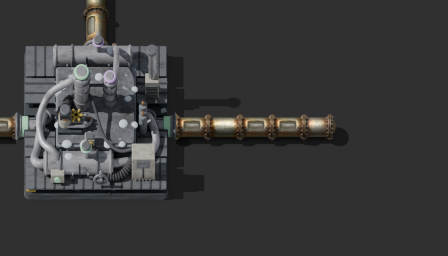
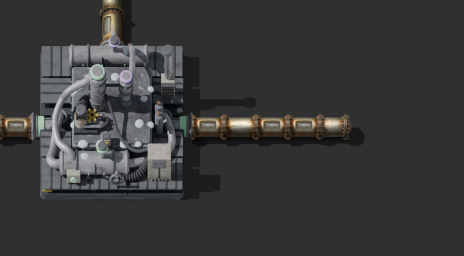
🐛 fix(graphics): frame the run off the footprint, not off one machine
Six defects the review of this branch found. The first is the one that
shows: the run frame was 14x8 tiles four off the machine centre, which
framed the 5x5 collector and cut the last pipe off both of
rf-heat-exchanger's water runs. That machine is fifteen tiles wide, so a
half-width of seven never reached a socket eight tiles out, let alone
the run beyond it -- and the frame that exists to say whether a join is
visible at a player's zoom was showing three tiles of run and a clipped
machine.

SPACING is read off footprint() for exactly that reason and the header
states the rule. The run frame was the one place still typed, so it now
comes off the same call: out to the last pipe plus four tiles of floor,
back to half the machine plus one, and the frame spans the two. The
thirteen frames are re-shot, and only the six run frames changed -- the
seam frames are byte-identical, which is the check that the seam framing
was left alone.

Five smaller ones:

docs/research/socket-join.md still said "a fixed map seed would fix it".
This branch disproved that by trying it, so the note now says what the
cause was and what fixed it, and says at the top that it describes the
#357 pair and none of the frames the probe writes today.

models/house-style.md stated the same measurement twice in one
paragraph, on a 122-character line, from an incomplete edit two commits
ago.

The PNG settle loop shared the done marker's deadline, so a marker
[…]

Changed region(s): [[0.0, 0.0, 0.7812, 0.7812]]

diff --git a/models/house-style.md b/models/house-style.md
@@ -320,22 +320,24 @@ number, which is this note's own last sentence said by a tool. (The other three 
 contained: they wear no rim and no ribs, so they report a stub and a band and nothing else.)
 
 **The fourth row is reproduced on the control render, and the leak with it.** The control is the
-shipped model with its six `Flange-*` objects deleted and re-rendered to a scratch
-directory -- nothing in the repository is touched and nothing is committed, so re-deriving that row
-means re-rendering. **`scripts/probe-flange-free-render.ps1` is that render, in one command**
-(#376): it runs `models/socket-variants.py`'s `unflanged` treatment over the stored model and
+shipped model with its six `Flange-*` objects deleted and re-rendered to a scratch directory --
+nothing in the repository is touched and nothing is committed, so re-deriving that row means
+re-rendering. **`scripts/probe-flange-free-render.ps1` is that render, in one command** (#376): it
+runs `models/socket-variants.py`'s `unflanged` treatment over the stored model and
 `models/render.py` over the result, into a directory the caller names and which it refuses if it is
 inside a mod. Before that the method lived only in this paragraph and the row could not be got back
-without working it out again. Measure the result with `--no-flange`, which is the caller telling
-`tools/measure-socket-parts.py` that the ribs' span is bare tube -- without it the tool still works
-its windows out from the constants the model was built from, labels that span "flange ribs" and
-measures it at the ribs' radius. Re-verified that way 2026-09-16: `+20.5`/`+18.5` through columns
-198..201, and nothing in the table unstable. Through columns 198..201 the stub measures +20.5/+18.5, which is the table's
-row; widened to 198..202 it measures +21.5/+19.5, which is the leak that shipped, and the tool
-reports THAT one unstable rather than returning it. The same boundary shows on the shipped sheet
-without any render: the flange rib ends and the accent band begins at column 202.88, so column 203
-starts a tenth of a pixel past it, and the band read through a window holding that column measures
-+24.5 above where its own columns give +23.5.
+without working it out again.
+
+Measure the result with `--no-flange`, which is the caller telling `tools/measure-socket-parts.py`
+that the ribs' span is bare tube -- without it the tool still works its windows out from the
+constants the model was built from, labels that span "flange ribs" and measures it at the ribs'
+radius. Through columns 198..201 the stub then measures +20.5/+18.5, which is the table's row, and
+nothing in the table is reported unstable; re-verified that way 2026-09-16. Widened to 198..202 it
+measures +21.5/+19.5, which is the leak that shipped, and the tool reports THAT one unstable rather
+than returning it. The same boundary shows on the shipped sheet without any render: the flange rib
+ends and the accent band begins at column 202.88, so column 203 starts a tenth of a pixel past it,
+and the band read through a window holding that column measures +24.5 above where its own columns
+give +23.5.
 
 **The mechanism is still not settled**: `tools/check-socket-height.py`'s header attributes the lost
 underside to the shadow-catching ground plane, and these numbers are consistent with an underside

diff --git a/docs/research/socket-join.md b/docs/research/socket-join.md
@@ -7,6 +7,13 @@ a re-render.
 
 Taken 2026-09-15 with `scripts/probe-socket-height.ps1`.
 
+**THIS NOTE DESCRIBES THE #357 PAIR AND NOTHING SINCE.** #374 and #378 changed the probe under it:
+it paves with `lab-dark-2` rather than grass and it writes one pair of frames per plumbable socket,
+`seam-<machine>-<side>-<fluid>.png` and `run-<machine>-<side>-<fluid>.png`, so none of the
+filenames below is one it produces today. `docs/research/socket-join/README.md` says what the two
+sets in that directory are and which of them a re-run reproduces. Nothing measured here has moved;
+the frames it names are still the frames on disk.
+
 ## What is being compared, and why it is not what #357 first said
 
 #357 was written as an acceptance of a quarter of a pixel: #356 dropped every plumbable socket by
@@ -72,7 +79,16 @@ checking this note against the frames gets numbers that do not match it. One rev
 that and reported the statistics as not reproducing.
 
 So these pairs are for reading the SEAM. They do not support a pixel diff, and a whole-frame
-impression will be dominated by grass. A fixed map seed would fix it and is not in this ticket.
+impression will be dominated by grass.
+
+**"A fixed map seed would fix it" was written here and is FALSE**, which #374 found out by trying
+it: a pinned seed on a surface of the rig's own still left 84.53 per cent of the reference frame's
+pixels differing between two runs, at a mean channel delta of 11.5 over the ones that did. The
+cause is not the seed but the TILE. base's `grass-1` declares its variants with weighted
+probabilities over sizes 1, 2 and 4, so the engine draws for every tile `set_tiles` writes and no
+seed a rig can set reaches that draw. Paving with a lab tile, whose main variant is `count = 1`,
+does fix it: two runs are byte-identical now, which is what `docs/research/socket-join/every-side/`
+is shot on. These pairs are still grass and still not diffable.
 
 ## What settled it
 

diff --git a/docs/research/socket-join/README.md b/docs/research/socket-join/README.md
@@ -19,11 +19,13 @@ Thirteen frames, one pair per plumbable socket plus a shared reference. This is 
 | rf-heat-exchanger | east | water | `seam-heat-exchanger-east-water.png` | `run-…` |
 | rf-heat-exchanger | south | steam | `seam-heat-exchanger-south-steam.png` | `run-…` |
 
-A `seam-` frame is at zoom 8 — one tile on 256 px, eight times what a player sees — and is centred
-on the half-tile where the socket stops and the pipe starts. A `run-` frame is the same socket with
-a five-tile pipe run leaving it at zoom 1, which is 32 px to the tile and the size a player meets
-it at. `pipe-alone.png` is three tiles of vanilla pipe on the same floor at zoom 8, shot once, as
-the reference every seam frame is read against.
+A `seam-` frame is at zoom 8 — one tile on 256 px, eight times what a player sees — four tiles by
+three, centred on the half-tile where the socket stops and the pipe starts, so the machine's own
+edge is the only other thing in it. A `run-` frame is the same socket with a five-tile pipe run
+leaving it at zoom 1, which is 32 px to the tile and the size a player meets it at; its size comes
+off the machine's own footprint, so the exchanger's fifteen-tile body and the run past it both
+fit. `pipe-alone.png` is three tiles of vanilla pipe on the same floor at zoom 8, shot once, as the
+reference every seam frame is read against.
 
 The three sockets that are missing from the table are rf-heat-exchanger's reactor-energy
 connections. They are contained (ADR 0018), they meet a machine face and never a pipe, and the
